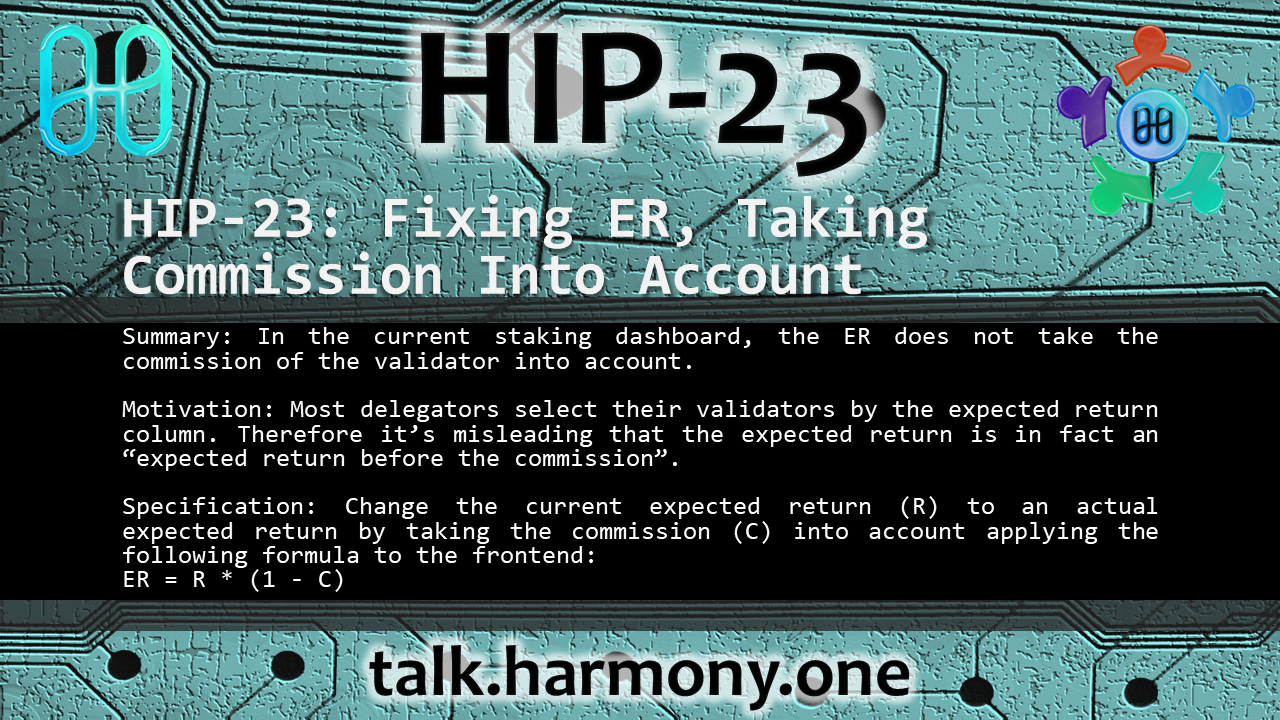
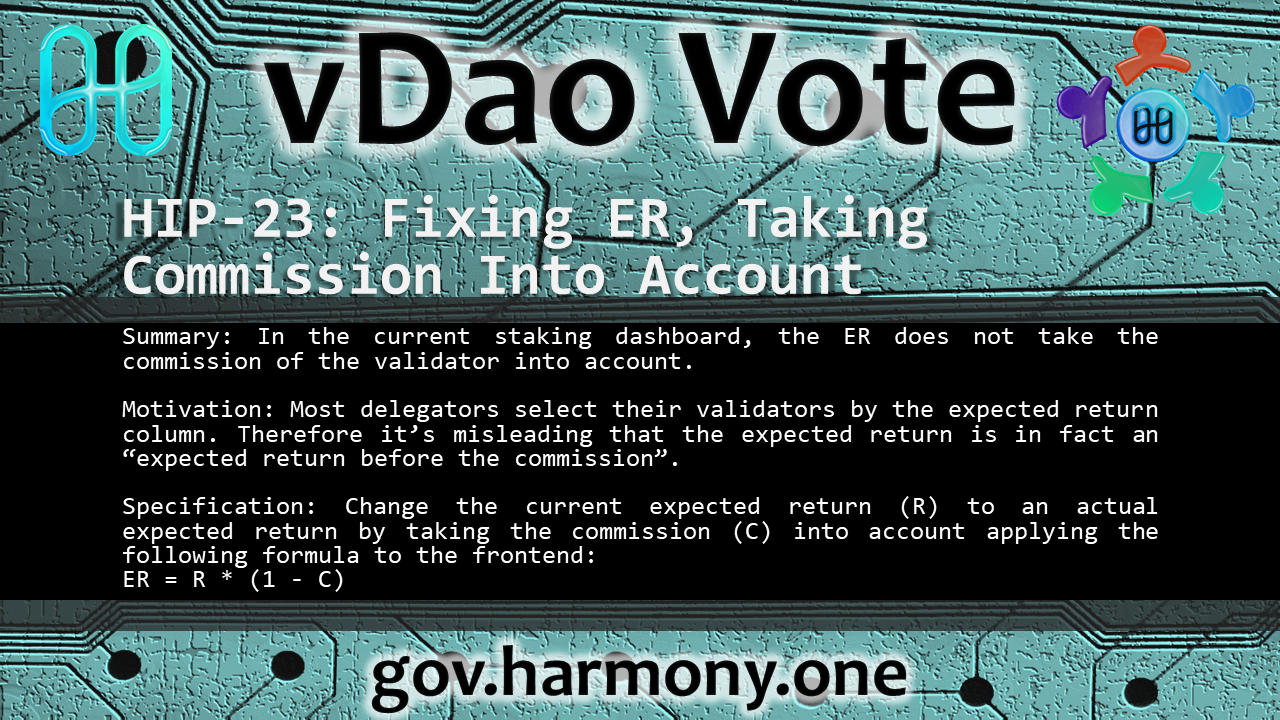
[ADD] HIP23 Vote, telegram msg frame

Changed region(s): [[0.1875, 0.0, 0.8125, 0.275], [0.2812, 0.8861, 0.7188, 1.0]]

diff --git a/send_telegram.py b/send_telegram.py
@@ -1,0 +1,16 @@
+import asyncio
+from telethon import TelegramClient, events
+
+# These example values won't work. You must get your own api_id and
+# api_hash from https://my.telegram.org, under API Development.
+api_id = 13320405
+api_hash = "6f2be7d76fe2af0a988cdab33e35386e"
+
+
+async def main():
+    # The first parameter is the .session file name (absolute paths allowed)
+    async with TelegramClient("vDAO", api_id, api_hash).start() as client:
+        await client.send_message("MaffazOne", "Hello, myself!")
+
+
+asyncio.run(main())

diff --git a/telegram.INFO.md b/telegram.INFO.md
@@ -1,0 +1,31 @@
+
+Test configuration:
+149.154.167.40:443
+DC 2
+
+Public keys:
+-----BEGIN RSA PUBLIC KEY-----
[5 lines of base64/hex data omitted]
+j4WcDuXc2CTHgH8gFTNhp/Y8/SpDOhvn9QIDAQAB
+-----END RSA PUBLIC KEY-----
+
+
+
+
+Production configuration:
+149.154.167.50:443
+DC 2
+
+Public keys:
+-----BEGIN RSA PUBLIC KEY-----
[5 lines of base64/hex data omitted]
+5+bfo3Nhmcyvk5ftB0WkJ9z6bNZ7yxrP8wIDAQAB
+-----END RSA PUBLIC KEY-----
